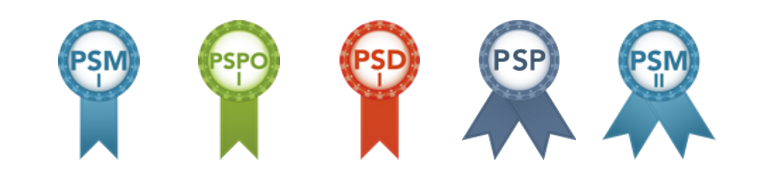
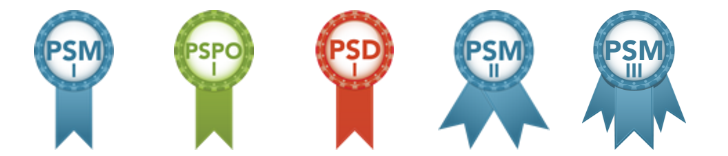
Update PSM II en III certificates

diff --git a/_posts/learn/2016-02-10-psp-exam.md b/_posts/learn/2016-02-10-psp-exam.md
@@ -11,6 +11,10 @@ title: Professional Scrum Practicioner
      class="pull-right"
      alt="PSP Badge">
 
+<div class="alert alert-info">
+Note: as of July 26th, this certification was <a href="https://blog.scrum.org/introducing-new-psm-assessment-family/">renamed to PSM II</a>.
+</div>
+
 This afternoon I passed my Professional Scrum Practitioners exam as part of my preparation for an advanced Scrum Master course I'm attending next month.
 The exam was quite a bit harder than the PSM I, PSPO I and PSD I exams.
 The questions are longer, require more precise reading and require better judgment; answers are less clear-cut and passing the exam requires more than reading the Scrum Guide and practicing some open assessments.

diff --git a/_posts/learn/2016-05-31-psm2-exam.md b/_posts/learn/2016-05-31-psm2-exam.md
@@ -11,6 +11,10 @@ title: Professional Scrum Master II
      class="pull-right"
      alt="PSMII Badge">
 
+<div class="alert alert-info">
+Note: as of July 26th 2016, this certification was <a href="https://blog.scrum.org/introducing-new-psm-assessment-family/">renamed to PSM III</a>.
+</div>
+
 This Sunday I passed my Professional Scrum Master II exam.
 
 Special thanks to [Sabina], [Youri] and [Coen] 
